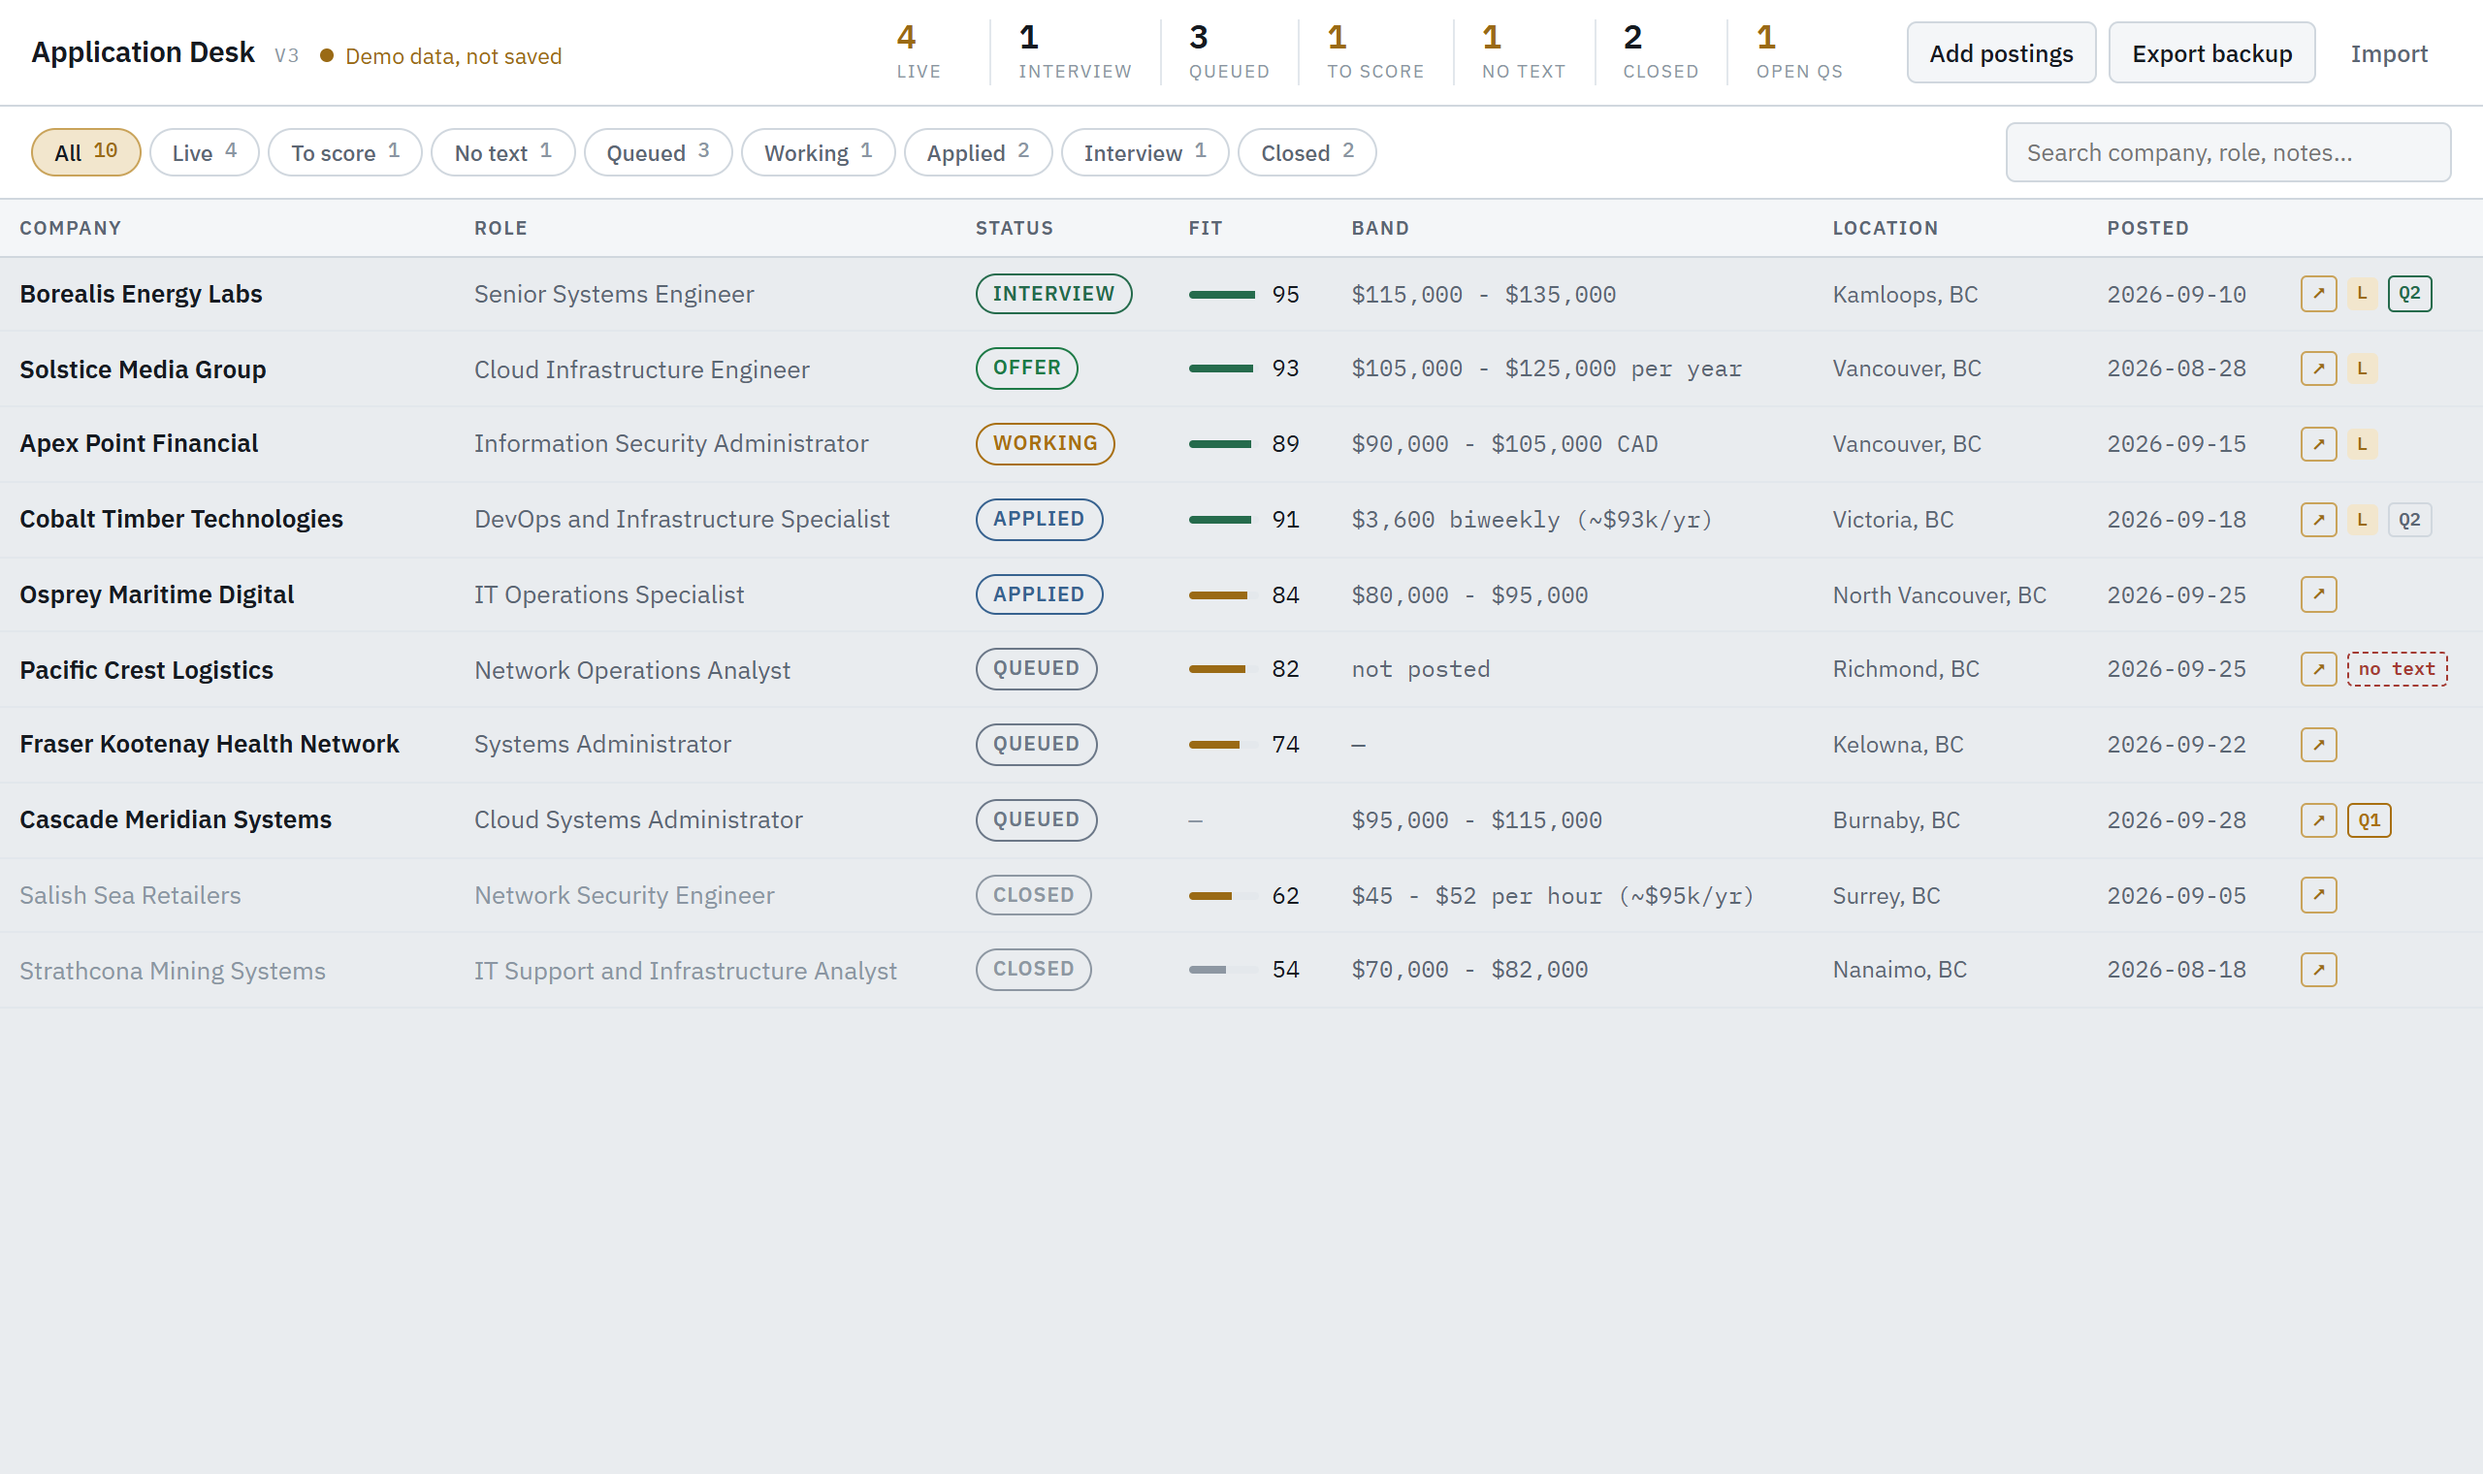
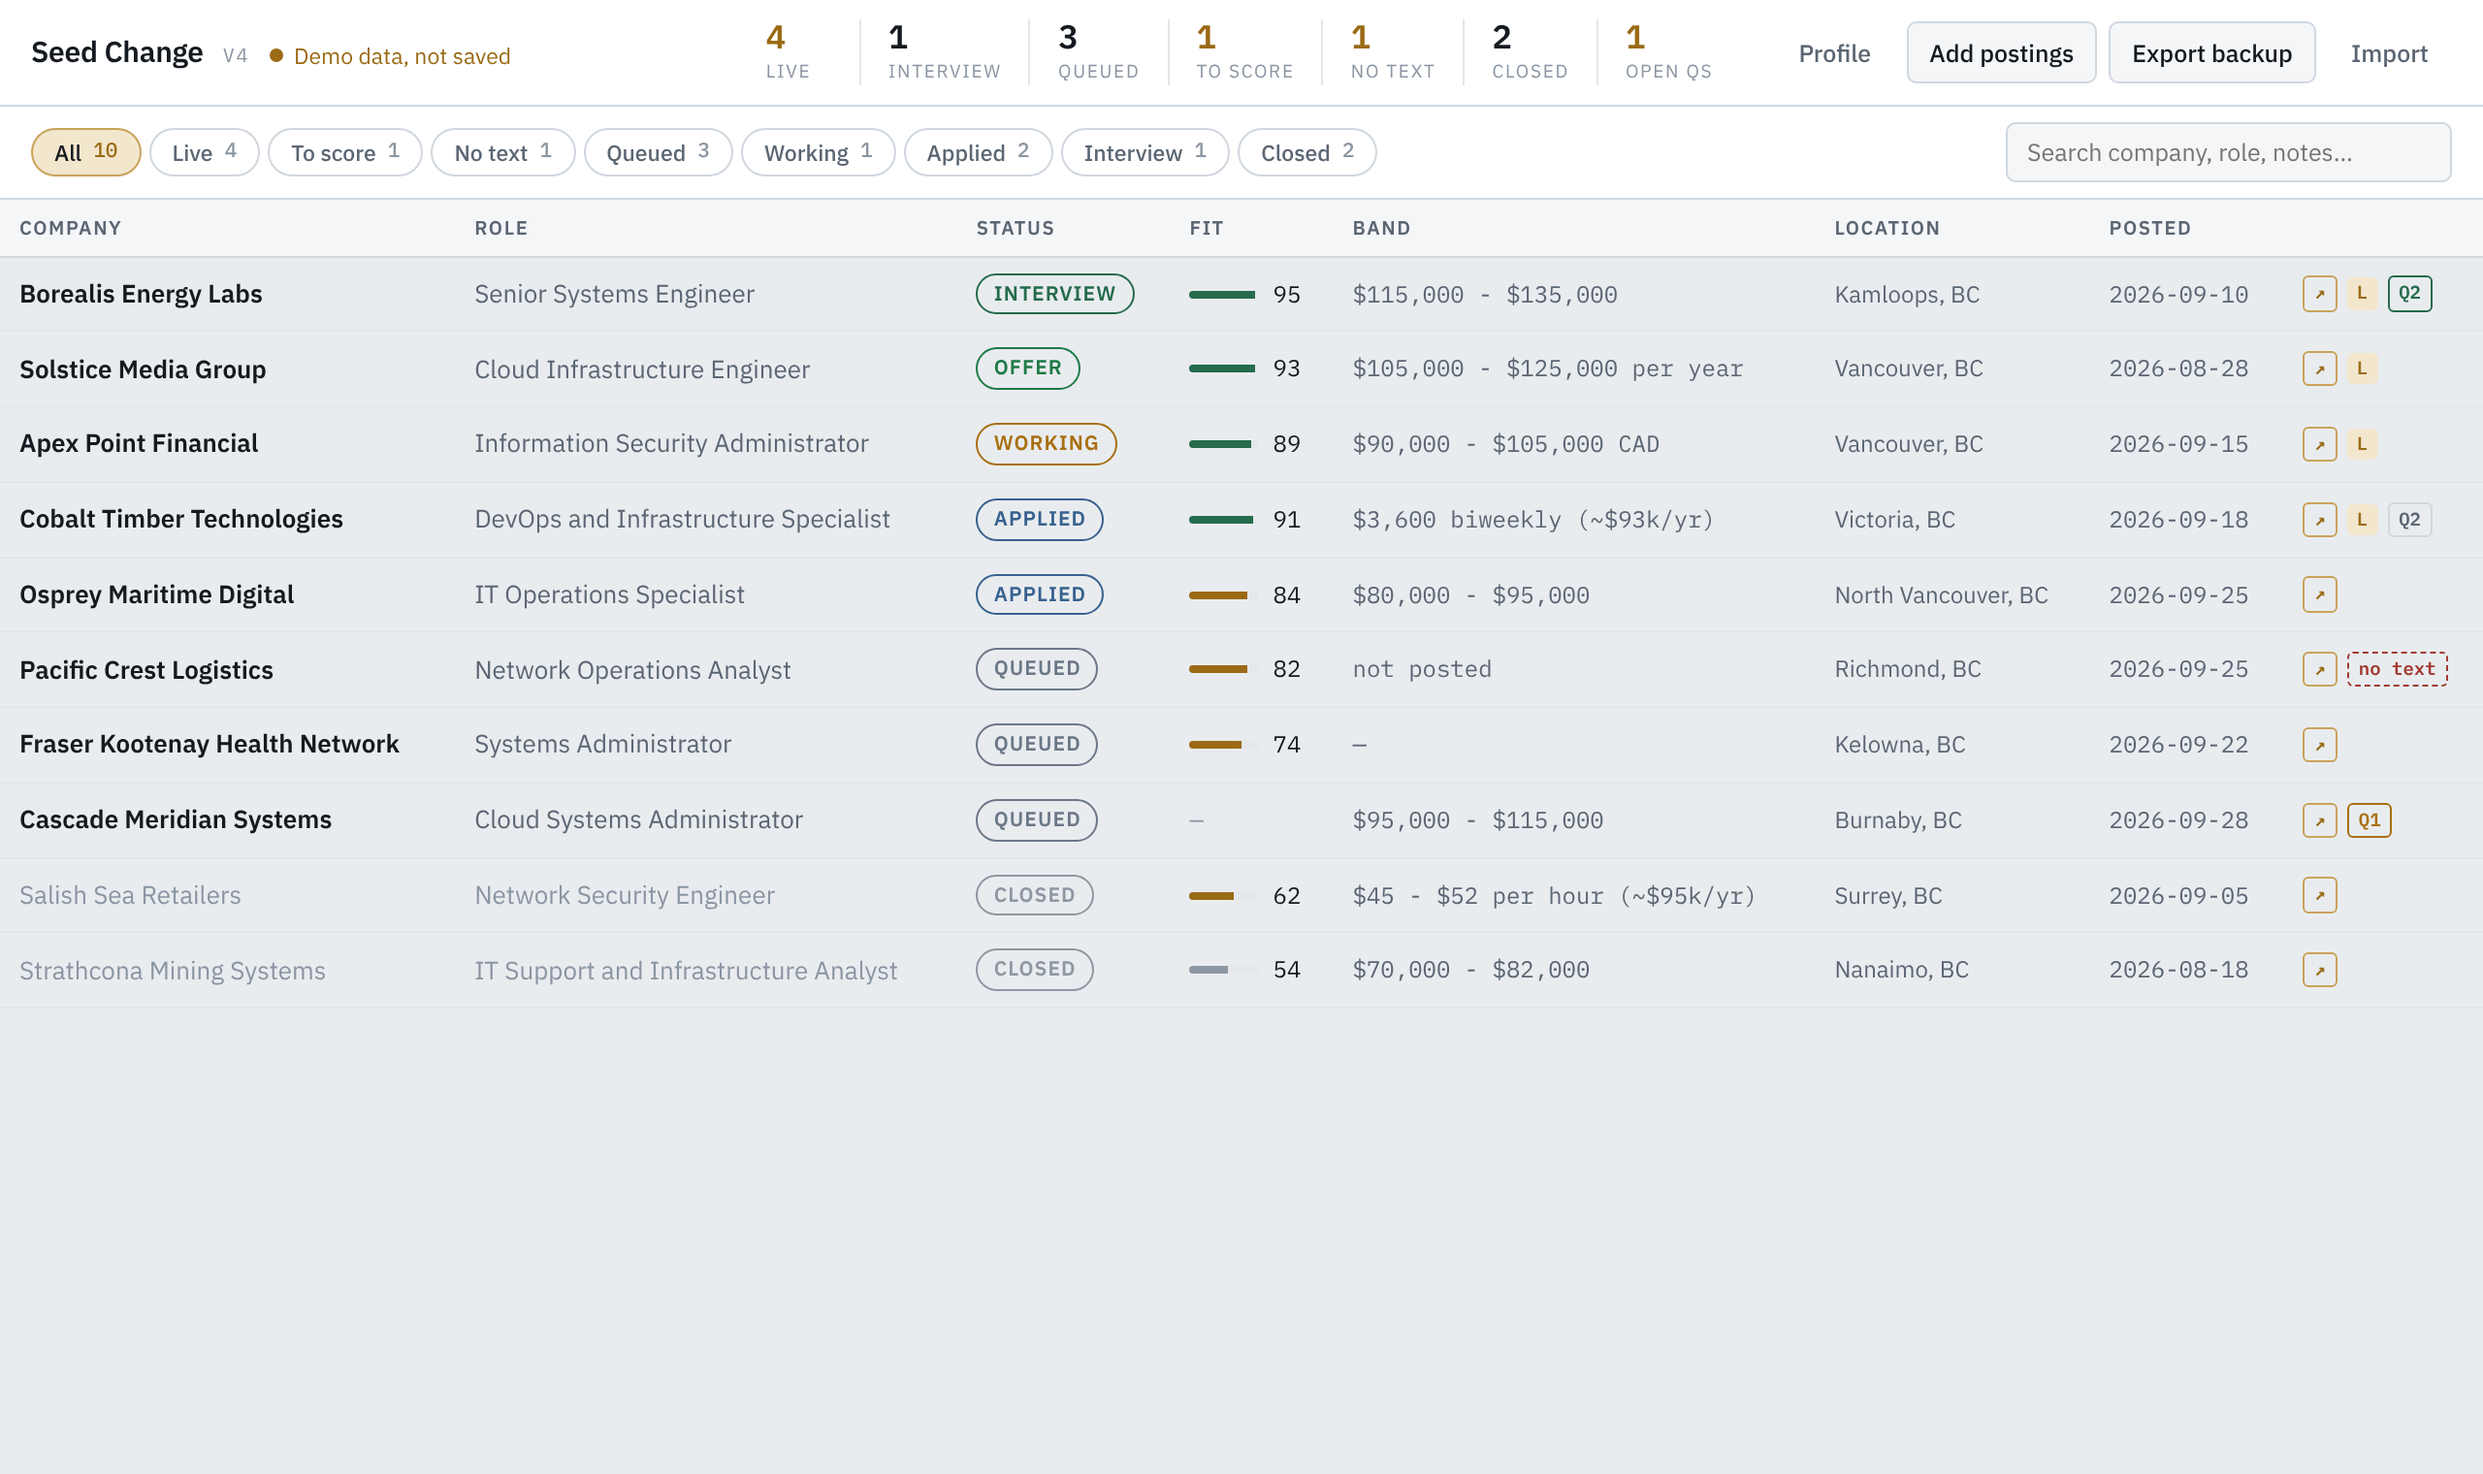
Retake the README screenshots under the new name
The four screenshots are retaken from the demo in the same states, so the
header reads Seed Change, and two new ones show the profile dialog and
the Help me apply tab.

Claude-Session: https://claude.ai/code/session_01YQccRU6PqfDe3VtXkUmMKf

diff --git a/README.md b/README.md
@@ -37,6 +37,10 @@ page updates live.
   <img src="docs/screenshots/questions.png" width="32%" alt="A question thread with Claude's answer">
   <img src="docs/screenshots/add-indeed.png" width="32%" alt="Adding a job from a pasted Indeed search page">
 </p>
+<p>
+  <img src="docs/screenshots/get-started.png" width="49%" alt="The profile read from a resume, open for checking">
+  <img src="docs/screenshots/help-me-apply.png" width="49%" alt="A company form's questions with Claude's draft answers">
+</p>
 
 ## How it works
 
